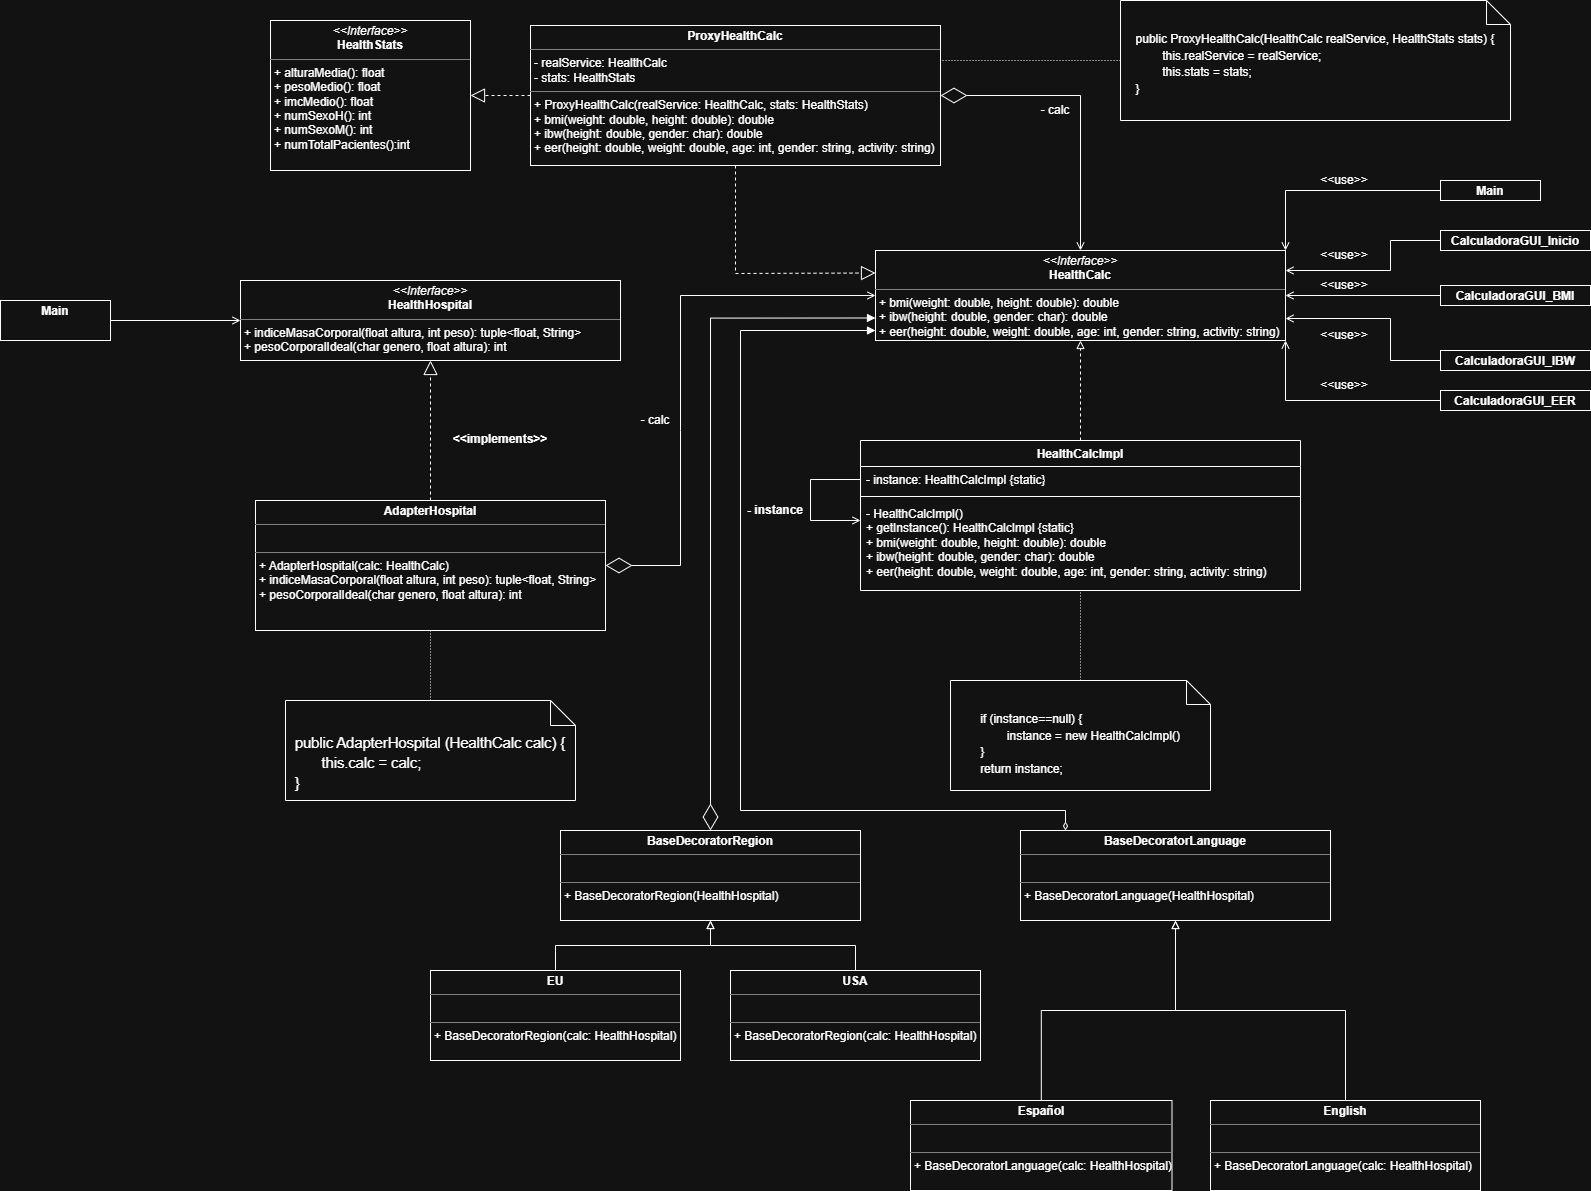
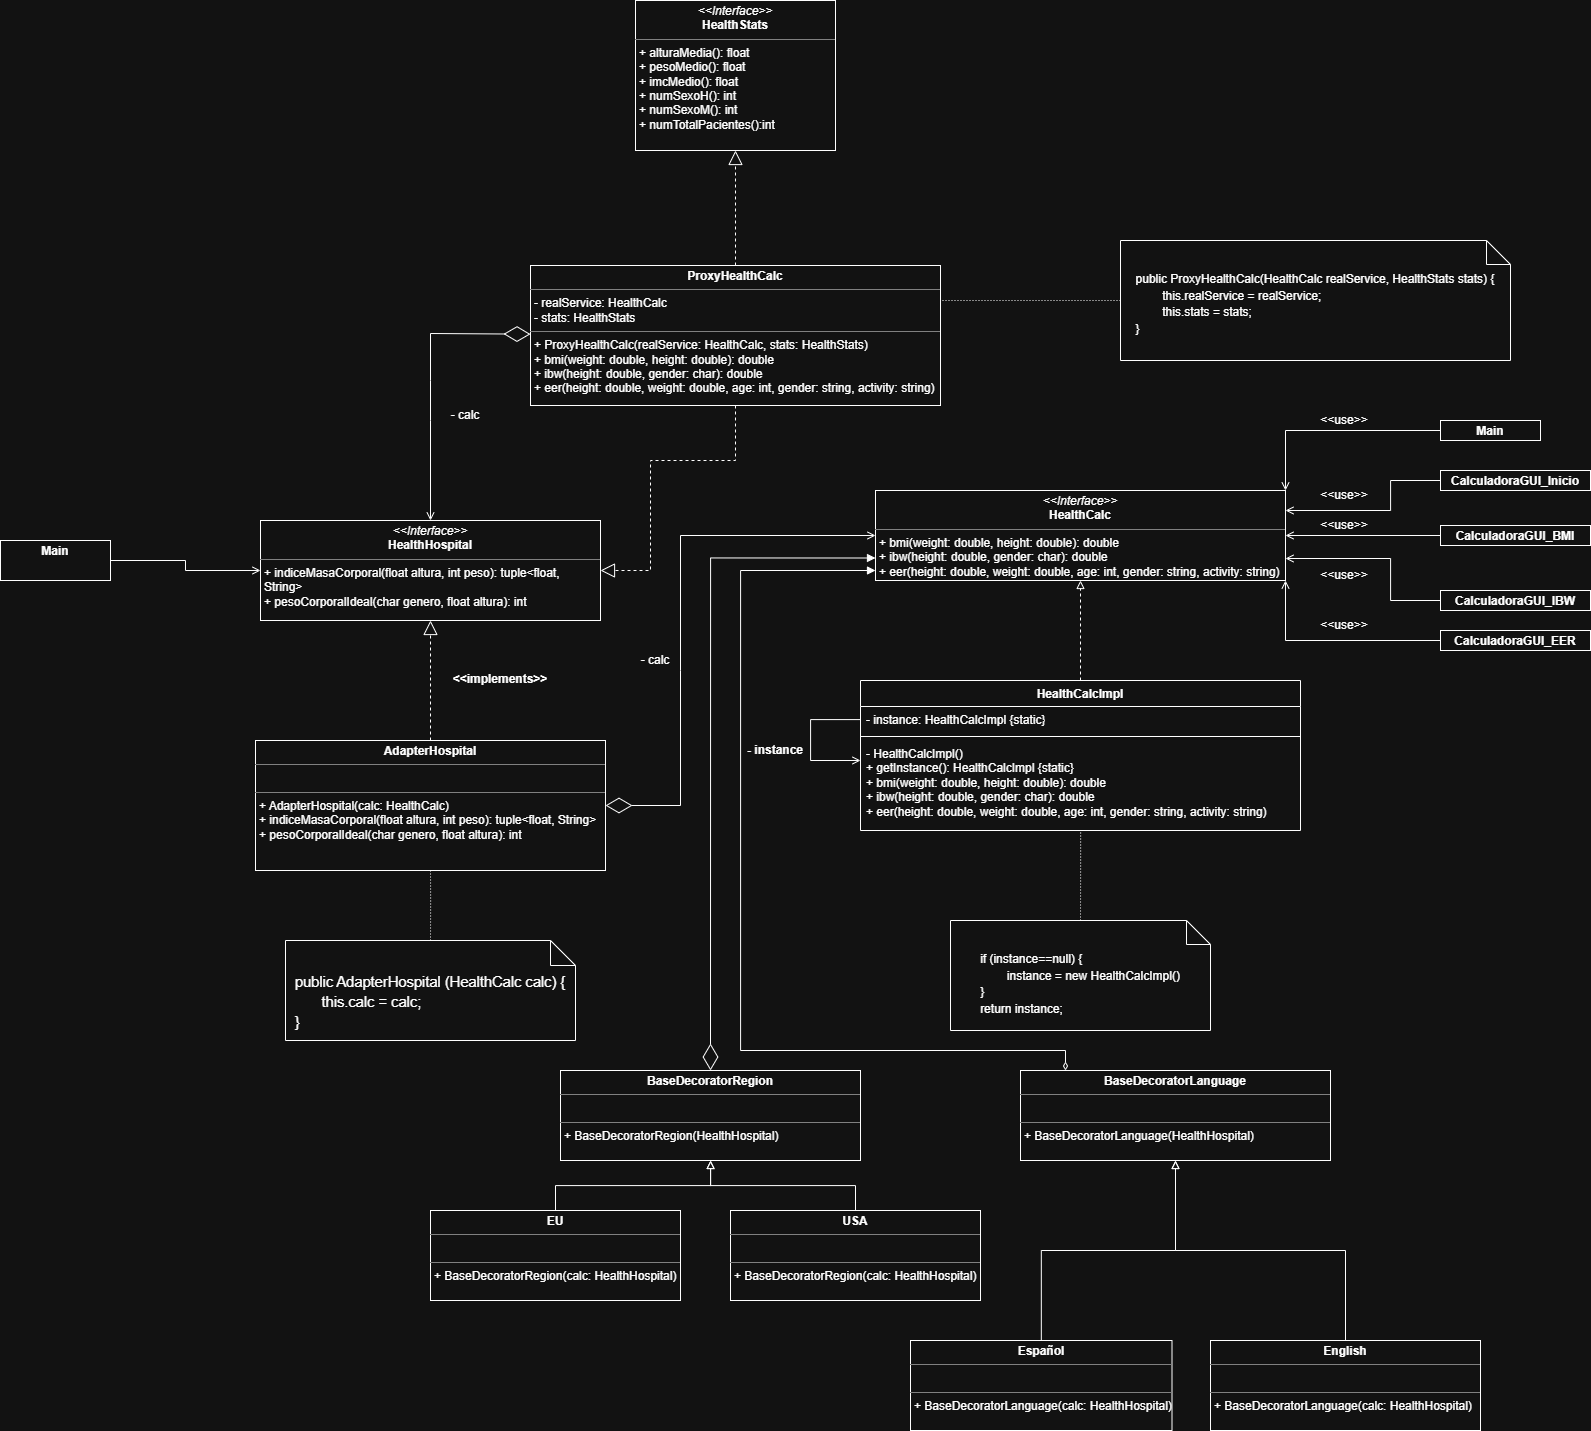
Merge pull request #92 from JuAnRuO86/P6
feat: añadir código de implementación del patrón Decorator

Pull request: feat: añadir código de implementación del patrón Decorator

diff --git a/java-project-healthcalc/src/main/java/healthcalc/EU.java b/java-project-healthcalc/src/main/java/healthcalc/EU.java
@@ -1,0 +1,28 @@
+package healthcalc;
+
+public class EU extends BaseDecoratorRegion {
+    public EU(HealthHospital calc) {
+        super(calc);
+    }
+
+    @Override
+    public Tuple<Float, String> indiceMasaCorporal(float altura, int peso) {
+
+        float alturaM = altura / 100; // Paso de centímetros a metros
+        int pesoKg = peso / 1000; // Paso de gramos a kg
+
+        Tuple<Float, String> result = super.indiceMasaCorporal(alturaM, pesoKg);
+        float bmi = result.getFirst();
+        String classification = result.getSecond();
+
+        return new Tuple<>(bmi, classification);
+    }
+    
+    @Override
+    public int pesoCorporalIdeal(char genero, float altura) {
+        float alturaM = altura / 100; // Paso de centímetros a metros
+
+        int idealWeight = super.pesoCorporalIdeal(genero, alturaM);
+        return idealWeight;
+    }
+}

diff --git a/java-project-healthcalc/src/main/java/healthcalc/USA.java b/java-project-healthcalc/src/main/java/healthcalc/USA.java
@@ -1,0 +1,28 @@
+package healthcalc;
+
+public class USA extends BaseDecoratorRegion {
+    public USA(HealthHospital calc) {
+        super(calc);
+    }
+
+    @Override
+    public Tuple<Float, String> indiceMasaCorporal(float alturaPulgadas, int pesoLibras) {
+        
+        // 1 libra = 0.453592 kg
+        float alturaM = (float) (alturaPulgadas * 0.0254);
+        // 1 pulgada = 0.0254 metros
+        int pesoKg = (int) (pesoLibras / 2.2046);
+
+        Tuple<Float, String> result = super.indiceMasaCorporal(alturaM, pesoKg);
+        float bmi = result.getFirst();
+        String classification = result.getSecond();
+
+        return new Tuple<>(bmi, classification);
+    }
+
+    @Override
+    public int pesoCorporalIdeal(char genero, float altura) {
+        float idealWeight = super.pesoCorporalIdeal(genero, altura);
+        return (int) (idealWeight * 2.2046); // Convertir de kg a libras
+    }
+}

diff --git a/java-project-healthcalc/src/main/java/healthcalc/English.java b/java-project-healthcalc/src/main/java/healthcalc/English.java
@@ -1,0 +1,27 @@
+package healthcalc;
+
+public class English extends BaseDecoratorLanguage {
+    public English(HealthHospital healthHospital) {
+        super(healthHospital);
+    }
+
+
+    @Override
+    public Tuple<Float, String> indiceMasaCorporal(float altura, int peso) {
+        return healthHospital.indiceMasaCorporal(altura, peso);
+    }
+
+    @Override
+    public int pesoCorporalIdeal(char genero, float altura) {
+        char gender;
+        if (genero == 'M') {
+            gender = 'H';
+        } else if (genero == 'F') {
+            gender = 'M';
+        } else {
+            throw new IllegalArgumentException("Invalid gender. Please use 'M' or 'F'.");
+        }
+        return healthHospital.pesoCorporalIdeal(gender, altura);
+    }
+
+}

diff --git a/java-project-healthcalc/src/main/java/healthcalc/BaseDecoratorLanguage.java b/java-project-healthcalc/src/main/java/healthcalc/BaseDecoratorLanguage.java
@@ -1,0 +1,20 @@
+package healthcalc;
+
+public class BaseDecoratorLanguage implements HealthHospital {
+    protected HealthHospital healthHospital;
+
+    public BaseDecoratorLanguage(HealthHospital healthHospital) {
+        this.healthHospital = healthHospital;
+    }
+
+    @Override
+    public Tuple<Float, String> indiceMasaCorporal(float altura, int peso) {
+        return healthHospital.indiceMasaCorporal(altura, peso);
+    }
+
+    @Override
+    public int pesoCorporalIdeal(char genero, float altura) {
+        return healthHospital.pesoCorporalIdeal(genero, altura);
+    }
+
+}

diff --git a/java-project-healthcalc/src/main/java/healthcalc/BaseDecoratorRegion.java b/java-project-healthcalc/src/main/java/healthcalc/BaseDecoratorRegion.java
@@ -1,0 +1,19 @@
+package healthcalc;
+
+public class BaseDecoratorRegion implements HealthHospital {
+    protected HealthHospital calc;
+
+    public BaseDecoratorRegion(HealthHospital calc) {
+        this.calc = calc;
+    }
+
+    @Override
+    public Tuple<Float, String> indiceMasaCorporal(float altura, int peso) {
+        return calc.indiceMasaCorporal(altura, peso);
+    }
+
+    @Override
+    public int pesoCorporalIdeal(char genero, float altura) {
+        return calc.pesoCorporalIdeal(genero, altura);
+    }
+}

diff --git a/java-project-healthcalc/src/main/java/healthcalc/Español.java b/java-project-healthcalc/src/main/java/healthcalc/Español.java
@@ -1,0 +1,19 @@
+package healthcalc;
+
+public class Español extends BaseDecoratorLanguage {
+    public Español(HealthHospital healthHospital) {
+        super(healthHospital);
+    }
+
+
+    @Override
+    public Tuple<Float, String> indiceMasaCorporal(float altura, int peso) {
+        return healthHospital.indiceMasaCorporal(altura, peso);
+    }
+
+    @Override
+    public int pesoCorporalIdeal(char genero, float altura) {
+        return healthHospital.pesoCorporalIdeal(genero, altura);
+    } 
+
+}